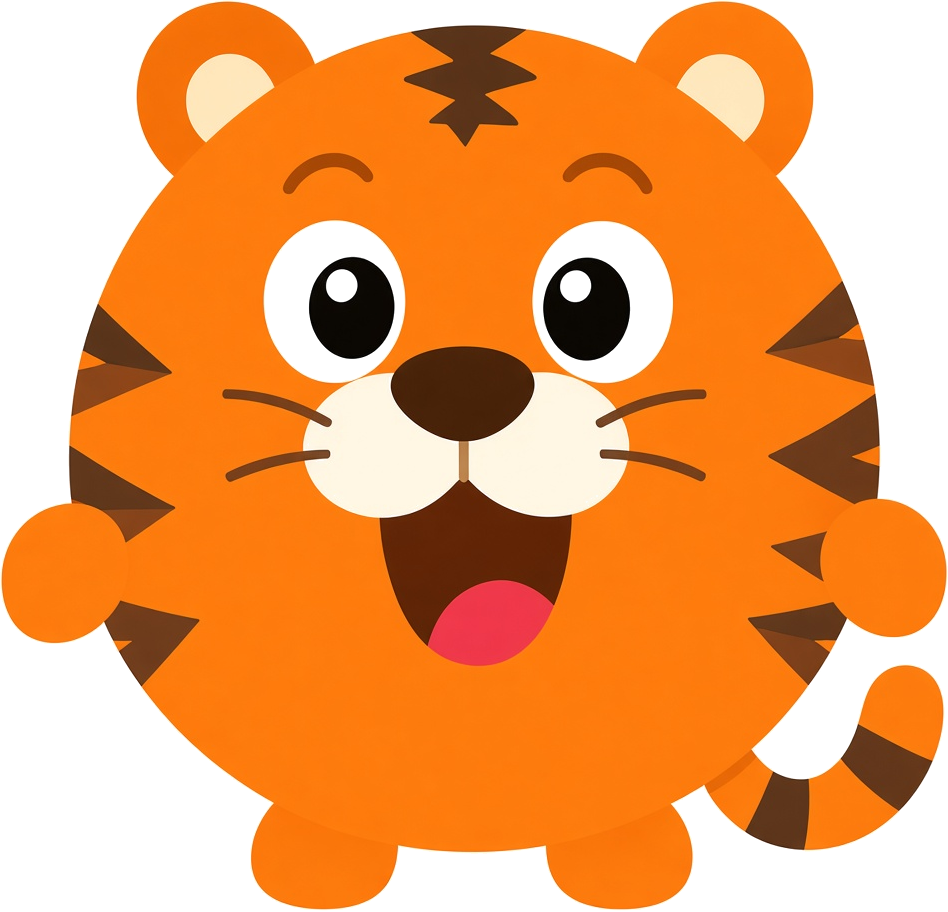
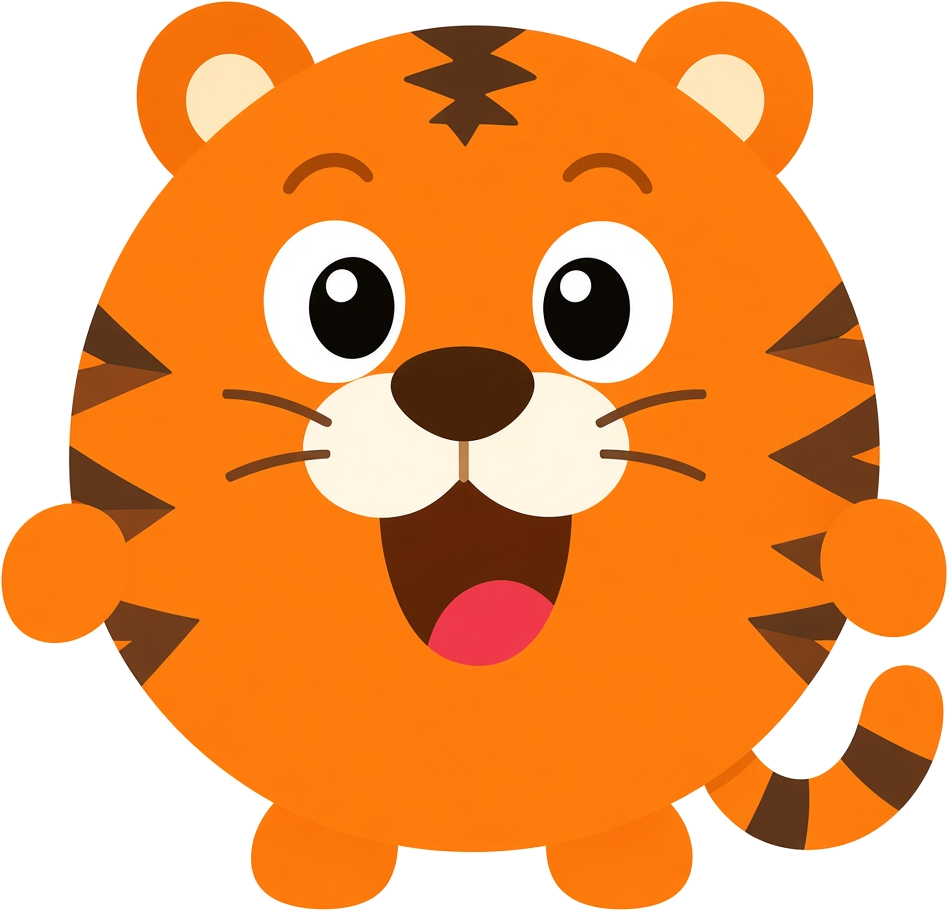
Fix hero tiger eyes: preserve white pupils on transparent PNG
Flood-fill only outer white background so eye whites stay opaque;
prevents purple hero card showing through eye sockets. Bump asset to v=3.

diff --git a/src/data/jungle-cast-brand.ts b/src/data/jungle-cast-brand.ts
@@ -60,7 +60,7 @@ export const MASCOT_PUBLIC_PATHS = {
   crocodile: "/mascot/jungle-jokers/header/crocodile.png?v=1",
   tiger: "/mascot/jungle-jokers/header/tiger.png?v=1",
   /** Hero card — both eyes open, friendly smile (home galaxy only). */
-  tigerHero: "/mascot/jungle-jokers/header/tiger-hero.png?v=2",
+  tigerHero: "/mascot/jungle-jokers/header/tiger-hero.png?v=3",
 } as const;
 
 /** Header branch scene — mascot + locked branch template (one character per tab). */
